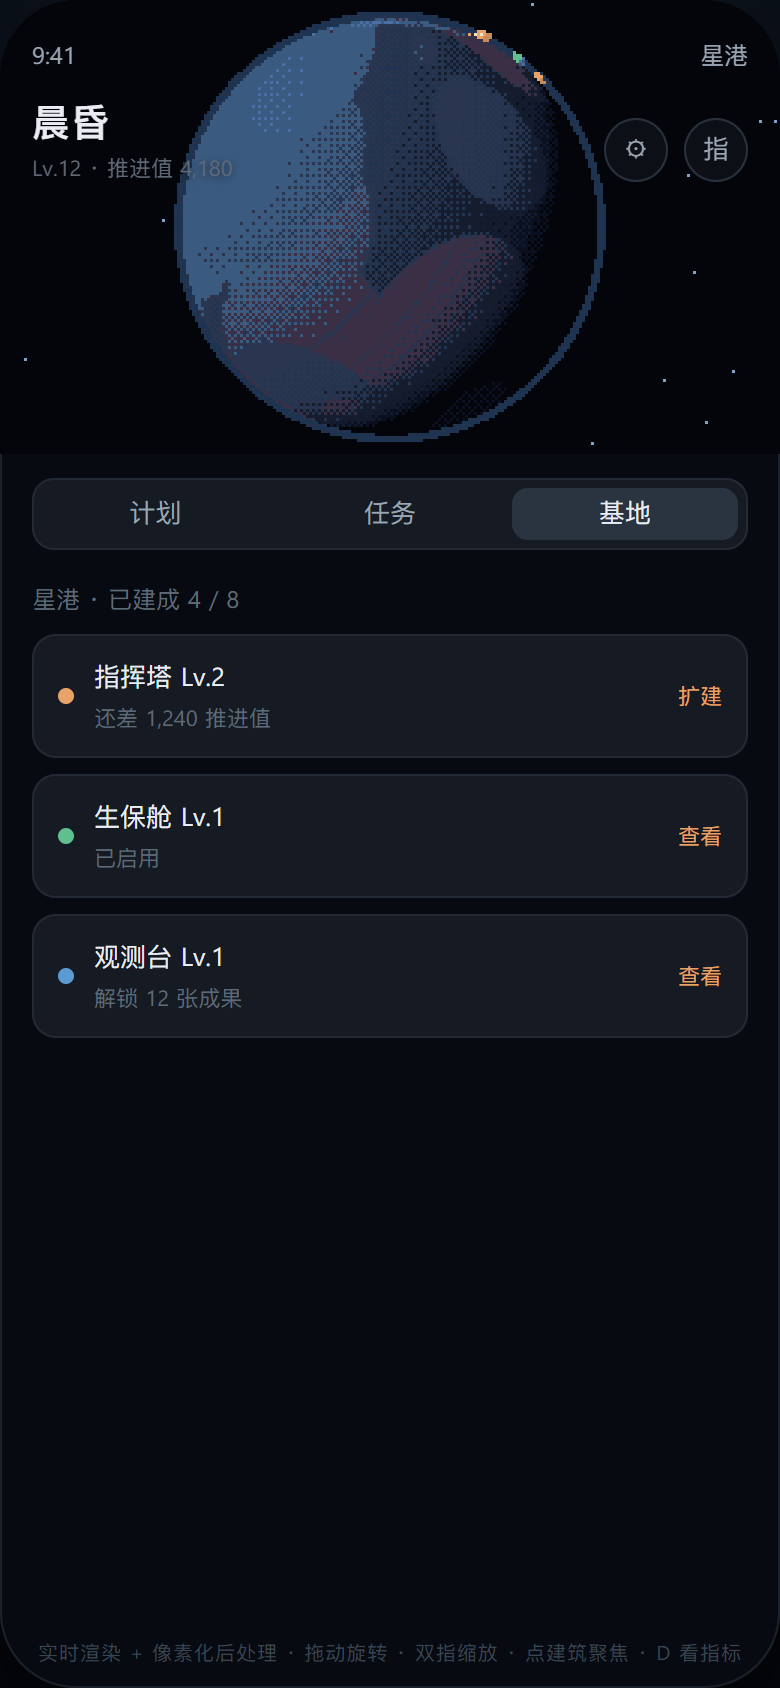
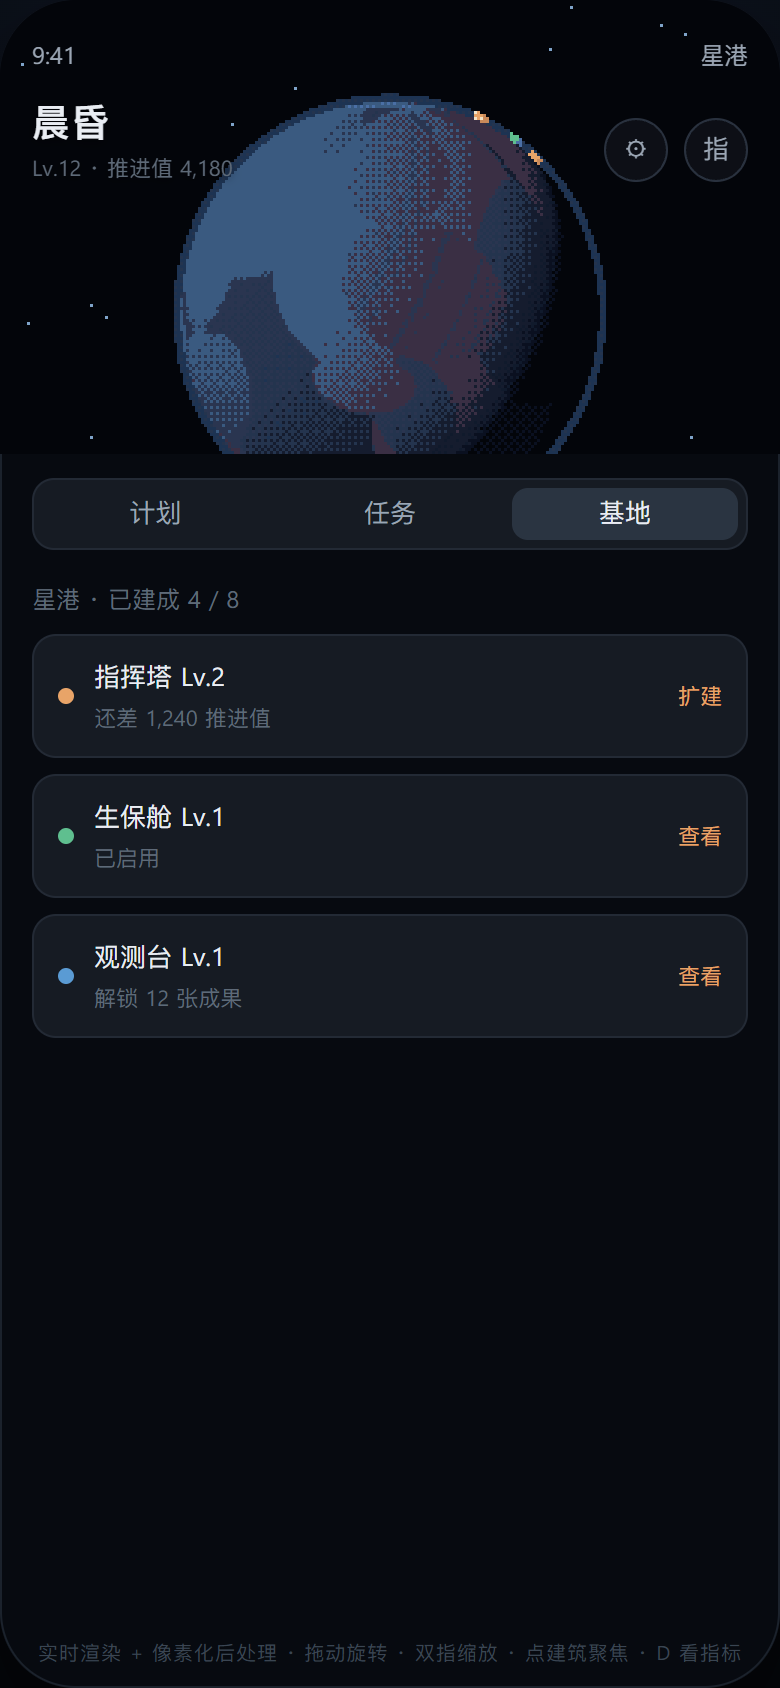
fix(星港计划): 全景星球下移，让开顶部 47px 安全区
三维画布是无界满幅的，状态栏（39px + 上边距 8px = 47px）浮在它上面。
改前星球按容器居中，顶端在 y=5.4 —— 整条上沿被状态栏压住。

做法：在 globeTargets() 里把视线往上抬一个角 α，星球在画面上相应下移。
α 取两段约束的较大者：
  ① 顶端约束：把星球（含 1.035R 大气壳）的上切线压到安全线下
     α₁ = angR − atan((1 − 2·SAFE_TOP/H) · tan(halfFov))
  ② 居中约束：星球比可用区小时别贴顶，在 [SAFE_TOP, H] 里居中
     α₂ = atan((bandCenter − H/2)/(H/2) · tan(halfFov))
其中 angR = asin(ATM_R / d)，所以 α 随缩放自适应。

为什么抬视线而不是改投影矩阵/镜头位移：改投影会同时改变 FOV 语义，
而聚焦视角的取景是逐像素实测校正过的（68.2% / 天空 35.9%），不能被动到。
实测确认聚焦取景未受影响。

实测（7 个缩放档位，像素实测 vs 面板预测，差 ≤1px）
  dist  抬升α   顶端y  底端y
  2.8   11.2°    48    226(溢出)
  3.6    6.2°    48    226(溢出)   ← 默认
  4.5    3.7°    54    222
  5.6    3.7°    70    204
全部档位顶端 ≥ 47 ✓（改前是 5.4）

底部溢出是必然的：可用高 180px，默认距离下星球投影高 219px。
视觉上像"星球从下边缘升起"，与地平线视角同一套观感。
不想裁切的话把默认距离放到 4.5（球高 171px，正好 53–224）。

量这个数踩了两个坑（已写进 18 章 §3.3）：
① 全宽扫描「连续非天空像素」时第 0 行就有 73 连段 —— 那是手机框圆角
   （#phone 的 border-radius:38px）裁掉的画布顶角，不是星球；
② 后面几档又被标题文字（y 47–85）和右上圆图标（CSS top:59px，
   逻辑 x 294–374）抢先命中。
最后把窗口收到逻辑 x 200–288（避开标题与图标）、判据用「≥20 连续非天空像素」
（球顶是连续实心，星点是孤立 1–2px）才测准。

调试面板新增一行「星球 y 范围」，显示 顶端–底端 px（抬 N°），
顶端低于安全线标绿。

截图重导（全景天空占比 59.1% → 62.1%，纯三维区板内率仍 100%）
文档：18 章新增 §3.3（含测量窗口踩坑）、测试表 +3 条、限制表 +1 条

Changed region(s): [[0.2154, 0.0, 0.8, 0.2773], [0.7077, 0.2464, 0.7385, 0.2773]]

diff --git a/星港计划-星际探索任务APP/demo/主页面三维演示.html b/星港计划-星际探索任务APP/demo/主页面三维演示.html
@@ -137,6 +137,7 @@
   <div class="r"><span>模式</span><span id="d-view">globe</span></div>
   <div class="r"><span>聚焦对象</span><span id="d-focus">—</span></div>
   <div class="r"><span>像素化</span><span id="d-px">—</span></div>
+  <div class="r"><span>星球 y 范围</span><span id="d-globe">—</span></div>
   <div class="r"><span>DPR / 倍率</span><span id="d-dpr">—</span></div>
   <div class="r"><span>WebGPU</span><span id="d-gpu">—</span></div>
   <div class="r"><span>GPU</span><span id="d-glr" style="font-size:10px;max-width:150px;text-align:right">—</span></div>
@@ -228,6 +229,13 @@ const camera = new THREE.PerspectiveCamera(35, W / H, 0.1, 100);
      dist 1.20 → 22.3%        dist 1.30 → 14.7%
    取 1.10：天空 35.9%（≈1/3），建筑屏底 y≈68%，屏高约 55px、可点面积约 1900 像素。 */
 const FAC = { dist: 1.10, back: 0.19, pitch: 8 * Math.PI / 180 };
+/* 顶部安全区（逻辑 px）：状态栏 39 + 上边距 8 = 47。
+   三维画布是"无界满幅"的，状态栏/标题浮在它上面 —— 所以全景状态下
+   星球不能顶进这条线，否则会被 UI 压住。见下面 globeTargets 的处理。 */
+const SAFE_TOP = 47;
+/* 大气壳半径（可见边缘按它算，比球体本体 1.0 保守一点） */
+const ATM_R = 1.035;
+
 const GLOBE = {
   // 390×227 视口 aspect=1.72，球投影受"高度"约束：
   //   d=3.0 → 占高 112%（上下裁）  d=3.6 → 占高 92%（完整，接近满高）  d=4.2 → 78%
@@ -293,6 +301,8 @@ const S = {
   distFrom: GLOBE.dist, distTo: GLOBE.dist,   // 过渡期距离也插值（LOD 不跳变）
   // 过渡路径在开始时定死（控制点 + 弧长总长），之后不再重算
   c1: null, c2: null, arcTotal: 1,
+  // 全景星球在屏幕上的纵向范围与视线抬升角（globeTargets 每帧写）
+  globeTopY: 0, globeBotY: 0, globeLift: 0,
   el: GLOBE.el,
   // 聚焦轨道：绕建筑旋转的两个角（相对 home 机位的增量）
   fAz: 0,                     // 方位角增量（绕法线转）
@@ -319,11 +329,57 @@ const _c1 = new THREE.Vector3(), _c2 = new THREE.Vector3();
 const _endUp = new THREE.Vector3();
 const _sp = new THREE.Vector3(), _sa = new THREE.Vector3(), _sb = new THREE.Vector3();
 
-/* 全局机位：球面轨道（dist 可显式给，过渡终点要用目标距离而不是当前距离） */
+/* ── 全局机位：球面轨道 ──────────────────────────────────────────
+   dist 可显式给（过渡终点要用目标距离，而不是当前距离）。
+
+   除了轨道位置，这里还把**视线往上抬一个角 α**，让星球在画面上相应下移，
+   从而避开顶部 SAFE_TOP 那条被 UI 覆盖的带子。
+
+   α 怎么定（两段取大）：
+     ① 顶端约束 —— 把星球（含大气壳）的**上切线**压到安全线以下。
+        球的上切线相对球心方向的夹角就是角半径 angR = asin(ATM_R / d)；
+        视线抬 α 后，上切线落在视轴上方 (angR − α) 处，其屏幕位置
+          y = H/2 · (1 − tan(angR − α) / tan(halfFov))
+        令 y = SAFE_TOP 反解：
+          α₁ = angR − atan( (1 − 2·SAFE_TOP/H) · tan(halfFov) )
+     ② 居中约束 —— 星球比可用区小时，别贴顶，在 [SAFE_TOP, H] 里居中：
+          α₂ = atan( (bandCenter − H/2) / (H/2) · tan(halfFov) )
+
+   结果（默认 dist=3.6）：α = 6.24°，星球顶端正好 y=47、底端 y=266
+   （底部溢出 39px —— 这是"无界画布 + 星球够大"的必然结果，视觉上像
+     星球从下边缘升起，与地平线视角的观感一致）。
+
+   为什么不用"改投影矩阵/镜头位移"：那样会同时改变 FOV 语义，
+   而聚焦视角的取景是实测校正过的，不能被动到。抬视线只影响全景。
+   ──────────────────────────────────────────────────────────────── */
 function globeTargets(dist = S.dist) {
   const d = dist, el = S.el;
   _tp.set(0, Math.sin(el) * d, Math.cos(el) * d);
-  _tl.set(0, 0, 0);
+
+  // 方向：从相机指向球心
+  _v1.copy(_tp).negate().normalize();
+  const tanHalf = Math.tan(camera.fov * Math.PI / 360);
+
+  // ① 顶端约束
+  const angR = Math.asin(Math.min(0.999, ATM_R / d));
+  const kTop = (1 - 2 * SAFE_TOP / H) * tanHalf;
+  const aClear = Math.max(0, angR - Math.atan(kTop));
+  // ② 居中约束
+  const bandCenter = (SAFE_TOP + H) / 2;
+  const aCenter = Math.max(0, Math.atan((bandCenter - H / 2) / (H / 2) * tanHalf));
+
+  const alpha = Math.max(aClear, aCenter);
+  if (alpha > 1e-4) {
+    _v2.crossVectors(_v1, WORLD_UP).normalize();   // 屏幕右
+    _v3.crossVectors(_v2, _v1).normalize();        // 屏幕上
+    _v1.addScaledVector(_v3, Math.tan(alpha)).normalize();
+  }
+  _tl.copy(_tp).addScaledVector(_v1, d);
+
+  // 记录星球的屏幕纵向范围，供调试面板与自动化校验读取
+  S.globeTopY = H / 2 * (1 - Math.tan(angR - alpha) / tanHalf);
+  S.globeBotY = H / 2 * (1 + Math.tan(angR + alpha) / tanHalf);
+  S.globeLift = alpha;
 }
 
 /* ── 聚焦机位：以建筑为球心的第二层轨道相机 ──────────────────────
@@ -1020,6 +1076,16 @@ function refresh() {
   $('d-drop').textContent = STAT.drop;
   $('d-tri').textContent = triCount().toLocaleString();
   $('d-backend').textContent = backend;
+  // 全景星球纵向范围（顶端必须 ≥ SAFE_TOP，否则会被顶部 UI 压住）
+  if (S.mode === 'globe' || S.next === 'globe') {
+    const ok = S.globeTopY >= SAFE_TOP - 0.5;
+    $('d-globe').textContent =
+      `${S.globeTopY.toFixed(0)} – ${S.globeBotY.toFixed(0)} px（抬 ${(S.globeLift * 180 / Math.PI).toFixed(1)}°）`;
+    $('d-globe').className = ok ? 'ok' : 'bad';
+  } else {
+    $('d-globe').textContent = '—（非全景）';
+    $('d-globe').className = '';
+  }
 }
 
 /* 设备信息 */

diff --git a/星港计划-星际探索任务APP/18-三维交互与相机系统.md b/星港计划-星际探索任务APP/18-三维交互与相机系统.md
@@ -147,8 +147,53 @@ camera.up = (0, 1, 0)
 |---|---|
 | 距离 | 2.80 – 5.60 R，默认 3.60 |
 | 俯角 | 4° – 58°，默认 18° |
-| 待机自转 | 0.055 rad/s（每帧 +0.055/60）≈ 76 s 一圈 |
+| 待机自转 | 0.055 rad/s ≈ 76 s 一圈 |
 | 惯性衰减 | 每帧 ×0.92 |
+
+### 3.3 顶部安全区：星球必须让开 47px
+
+三维画布是**无界满幅**的，状态栏（39px + 上边距 8px = **47px**）浮在它上面。
+如果星球按容器居中，顶端会跑到 y=5.4 —— 整条上沿被状态栏压住。
+
+做法：在 `globeTargets()` 里把**视线往上抬一个角 α**，星球在画面上就相应下移。
+α 取两段约束的较大者：
+
+| 约束 | 条件 | 公式 |
+|---|---|---|
+| ① 顶端 | 把星球（含 1.035R 大气壳）的**上切线**压到安全线下 | `α₁ = angR − atan((1 − 2·SAFE_TOP/H) · tan(halfFov))` |
+| ② 居中 | 星球比可用区小时别贴顶，在 `[SAFE_TOP, H]` 里居中 | `α₂ = atan((bandCenter − H/2)/(H/2) · tan(halfFov))` |
+
+其中 `angR = asin(ATM_R / d)` 是星球的角半径。
+
+**为什么用"抬视线"而不是改投影矩阵/镜头位移**：改投影会同时改变 FOV 语义，
+而聚焦视角的取景是逐像素实测校正过的，不能被动到。抬视线只影响全景。
+
+实测（7 个缩放档位，像素实测 vs 面板预测）：
+
+| dist | 抬升 α | 星球顶端 y | 面板 | 底端 y |
+|---|---|---|---|---|
+| 2.8 | 11.2° | 48.0 | 47 | 226（溢出） |
+| 3.0 | 9.7° | 48.0 | 47 | 226（溢出） |
+| **3.6（默认）** | **6.2°** | **48.0** | **47** | **226（溢出）** |
+| 4.0 | 4.5° | 48.0 | 47 | 222（溢出） |
+| 4.5 | 3.7° | 54.0 | 53 | 222 |
+| 5.0 | 3.7° | 63.0 | 62 | 213 |
+| 5.6 | 3.7° | 70.5 | 70 | 204 |
+
+全部档位顶端 ≥ 47 ✓，实测与面板差 ≤1px。
+
+> **量这个数要小心测量窗口**。第一版直接全宽扫描「连续非天空像素」，结果
+> ① 第 0 行就有 73 连段 —— 那是**手机框圆角**（`#phone` 的 `border-radius:38px`）裁掉的画布顶角；
+> ② 后面几档又被**标题文字**（y 47–85）和**右上圆图标**（CSS `top:59px`，逻辑 x 294–374）抢先命中。
+> 最后把窗口收到**逻辑 x 200–288**（避开标题与图标）才测准。
+> 判据用「该行有 ≥20 连续非天空像素」——球顶是连续实心，星点是孤立 1–2px，不会误判。
+
+底部裁切是必然的：可用高度只有 180px，而默认距离下星球投影高 219px。
+视觉上像"星球从下边缘升起"，与地平线视角同一套观感。
+若不想裁切，把默认距离放到 4.5（星球高 171px，正好落在 53–224）。
+
+调试面板新增一行 `星球 y 范围`，直接显示 `顶端 – 底端 px（抬 N°）`，
+顶端低于安全线时标绿，方便随时核对。
 
 ---
 
@@ -450,6 +495,9 @@ S.dist = clamp(初始距离 * k, min, max)
 | 23 | 夹取处反向 40px | Δ=9.17°，与理论一致 ✓（无累积） |
 | 24 | 轻点空白 3px | 仍退出到 globe ✓ |
 | 25 | 数值健全性 | 相机/看点无 NaN ✓（含 lookAt 退化兜底） |
+| 26 | 全景星球顶端（7 个缩放档） | 48.0 – 70.5 px，全部 ≥ 安全线 47 ✓ |
+| 27 | 面板预测 vs 像素实测 | 差 ≤1px ✓ |
+| 28 | 聚焦取景是否被安全区改动影响 | 仍 建筑 x=50.0% / y=68.2% ✓ 未受影响 |
 
 聚焦各状态截图质量（780×454，16 色板内率）：
 
@@ -485,6 +533,7 @@ S.dist = clamp(初始距离 * k, min, max)
 | 6 | 未处理多指与页面滚动冲突 | 已加 `touch-action: none`（在 `#stage` 上）；但整个页面若后续改成可滚动，需要重新验证手势归属。 |
 | 9 | 过渡期间不接受输入 | 1350ms 里点按会被丢掉。若嫌久，可加"点击打断过渡"或把 `TRANSIT_MS` 调到 900。 |
 | 10 | 过渡曲线与窗口是常量 | `EASE_POS` / `WIN_*` / `FLY_LIFT` / `TRANSIT_MS` 都是文件顶部常量，调手感不用改逻辑，但目前没有运行时面板。 |
+| 12 | 顶部安全区是硬编码 47px | 对应 `#phone` 的状态栏 39 + 上边距 8。若改这两处 CSS，要同步改 `SAFE_TOP`。标题区实际延伸到 y≈85，但那属于"浮动 UI 压在画面上"的设计意图，没有一并让开。 |
 | 11 | 路径只按"起点→终点"生成 | 没有做障碍规避。设施都在同一颗球的表面，两点之间的大圆弧不会穿过球体，所以课设范围内够用；若以后设施会浮空或地下，需要重做。 |
 
 ---

diff --git a/星港计划-星际探索任务APP/design/三维截图/README.md b/星港计划-星际探索任务APP/design/三维截图/README.md
@@ -21,6 +21,7 @@
 | 聚焦态拖动 | 只是微调俯角（且会误退出） | **以建筑为中心环绕**（正圆轨道，建筑始终钉在屏幕同一点） |
 | 新增 | — | **08/09/10** 三张聚焦视图：home / 环绕 / 俯视 |
 | 建筑 | 固定尺寸 | 距离补偿缩放（LOD），远景也看得清、点得中 |
+| 全景星球位置 | 容器居中（顶端 y=5.4，被状态栏压住） | **视线抬升，顶端让到安全线 47px 以下** |
 
 ---
 
@@ -69,8 +70,25 @@
 |---|---|
 | 相机距离 | 3.60 R（范围 2.80 – 5.60） |
 | 俯角 | 18°（范围 4° – 58°） |
-| 球占屏高 | 92%（完整可见，接近满高） |
-| 待机自转 | 0.083 rad/s ≈ 76 秒一圈 |
+| 球占屏高 | 默认距离下 219px（画布高 227px） |
+| 待机自转 | 0.055 rad/s ≈ 76 秒一圈 |
+| 顶部安全区 | **47px**（状态栏 39 + 上边距 8），星球顶端必须让开 |
+
+**顶部安全区**：画布是无界满幅的，状态栏浮在上面。做法是把视线往上抬一个角 α，
+让星球在画面上相应下移；α 随缩放自适应（取「顶端贴安全线」与「在可用区居中」两段的较大者）。
+
+| dist | 抬升 α | 星球顶端 y | 底端 y |
+|---|---|---|---|
+| 2.8 | 11.2° | 48 | 226（溢出） |
+| **3.6（默认）** | **6.2°** | **48** | **226（溢出）** |
+| 4.5 | 3.7° | 54 | 222 |
+| 5.6 | 3.7° | 70 | 204 |
+
+改动前默认距离下顶端在 **y=5.4**，整条上沿被状态栏压住；现在全部 7 个缩放档位
+顶端实测 48–70px，均在安全线以下（像素实测与面板预测差 ≤1px）。
+
+> 底部溢出是必然的：可用高度 180px，默认距离下星球投影高 219px。
+> 视觉上像"星球从下边缘升起"。若要不裁切，把默认距离放到 4.5（球高 171px）。
 
 ### 4.2 focus 聚焦（点建筑后）
 
@@ -151,12 +169,12 @@
 
 | 文件 | 色数 | 板内率 | 天空 |
 |---|---|---|---|
-| `04` globe 默认档 3px | 1,019 | 94.87% | 59.1% |
-| `08` focus home | 776 | 95.01% | 35.8% |
-| `09` focus 环绕 | 762 | 95.09% | 36.3% |
-| `10` focus 俯视 | 1,499 | 93.90% | 0.0% |
-| `06` 块 2 / 4 / 6px | 1,018 / 1,009 / 1,010 | 94.86–94.87% | 58.5–58.8% |
-| `05` 关闭像素化 | 9,287 | 0.02% | 0% |
+| `04` globe 默认档 3px | 840 | 95.05% | 62.1% |
+| `08` focus home | 768 | 95.01% | 35.8% |
+| `09` focus 环绕 | 757 | 95.09% | 36.2% |
+| `10` focus 俯视 | 1,620 | 93.90% | 0.0% |
+| `06` 块 2 / 4 / 6px | 836 / 838 / 835 | 95.05% | 61.4–61.8% |
+| `05` 关闭像素化 | 8,755 | 0.01% | 0% |
 
 **纯三维区（无 UI 覆盖部分）板内率：四个档位都是 100.00%。**
 
